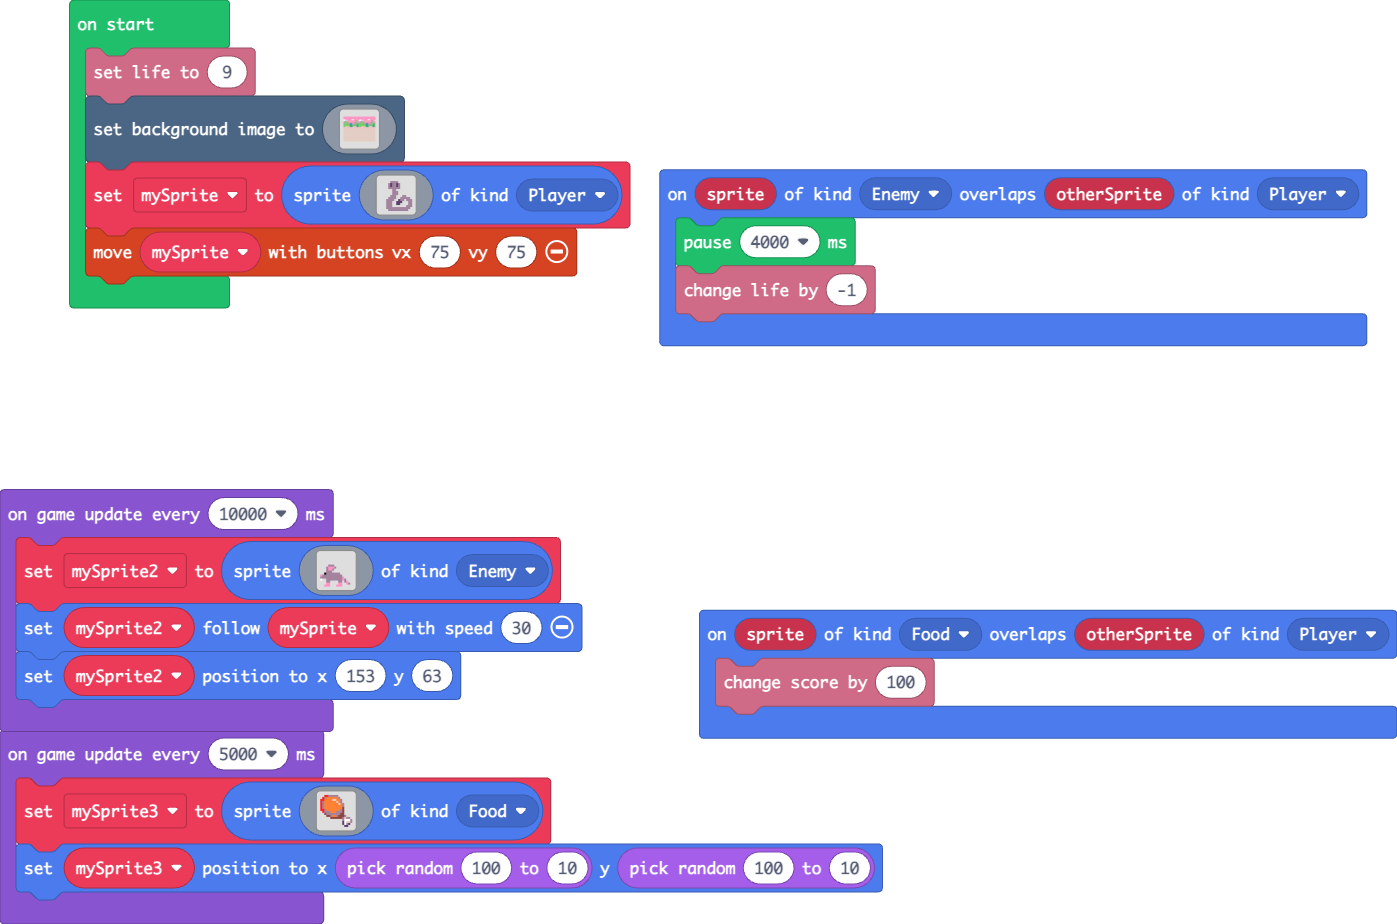
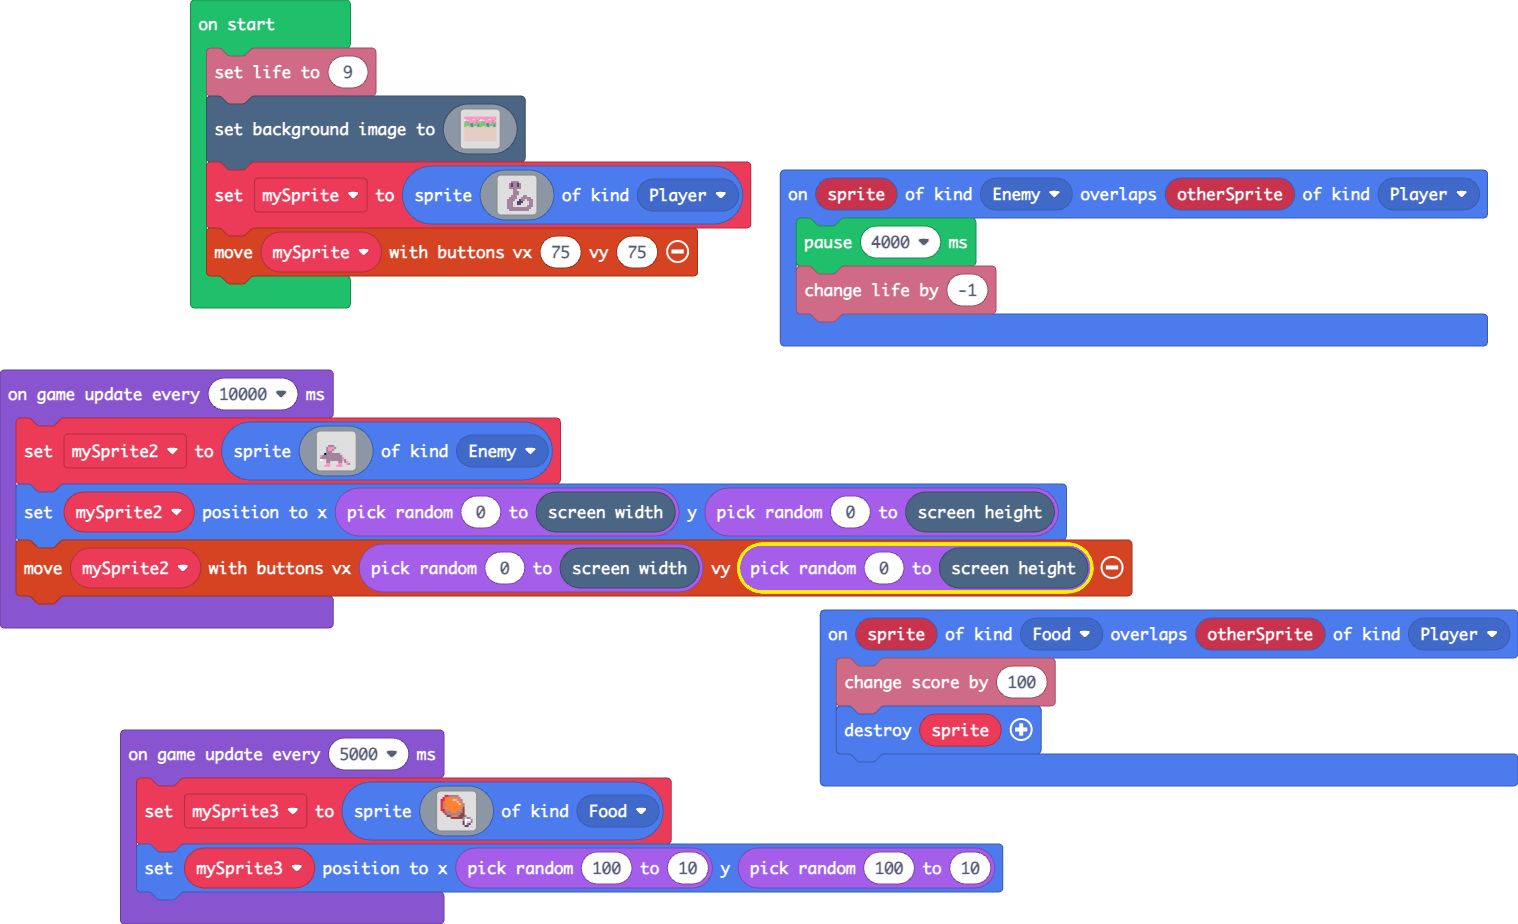
Update main.blocks, main.ts

diff --git a/main.ts b/main.ts
@@ -1,5 +1,6 @@
 sprites.onOverlap(SpriteKind.Food, SpriteKind.Player, function (sprite, otherSprite) {
     info.changeScoreBy(100)
+    sprites.destroy(sprite)
 })
 sprites.onOverlap(SpriteKind.Enemy, SpriteKind.Player, function (sprite, otherSprite) {
     pause(4000)
@@ -189,6 +190,6 @@ game.onUpdateInterval(10000, function () {
         . . . 3 3 . . . . 3 3 . . 3 b . 
         . . 3 3 3 . . . 3 3 3 . . . . . 
         `, SpriteKind.Enemy)
-    mySprite2.follow(mySprite, 30)
-    mySprite2.setPosition(153, 63)
+    mySprite2.setPosition(randint(0, scene.screenWidth()), randint(0, scene.screenHeight()))
+    controller.moveSprite(mySprite2, randint(0, scene.screenWidth()), randint(0, scene.screenHeight()))
 })
